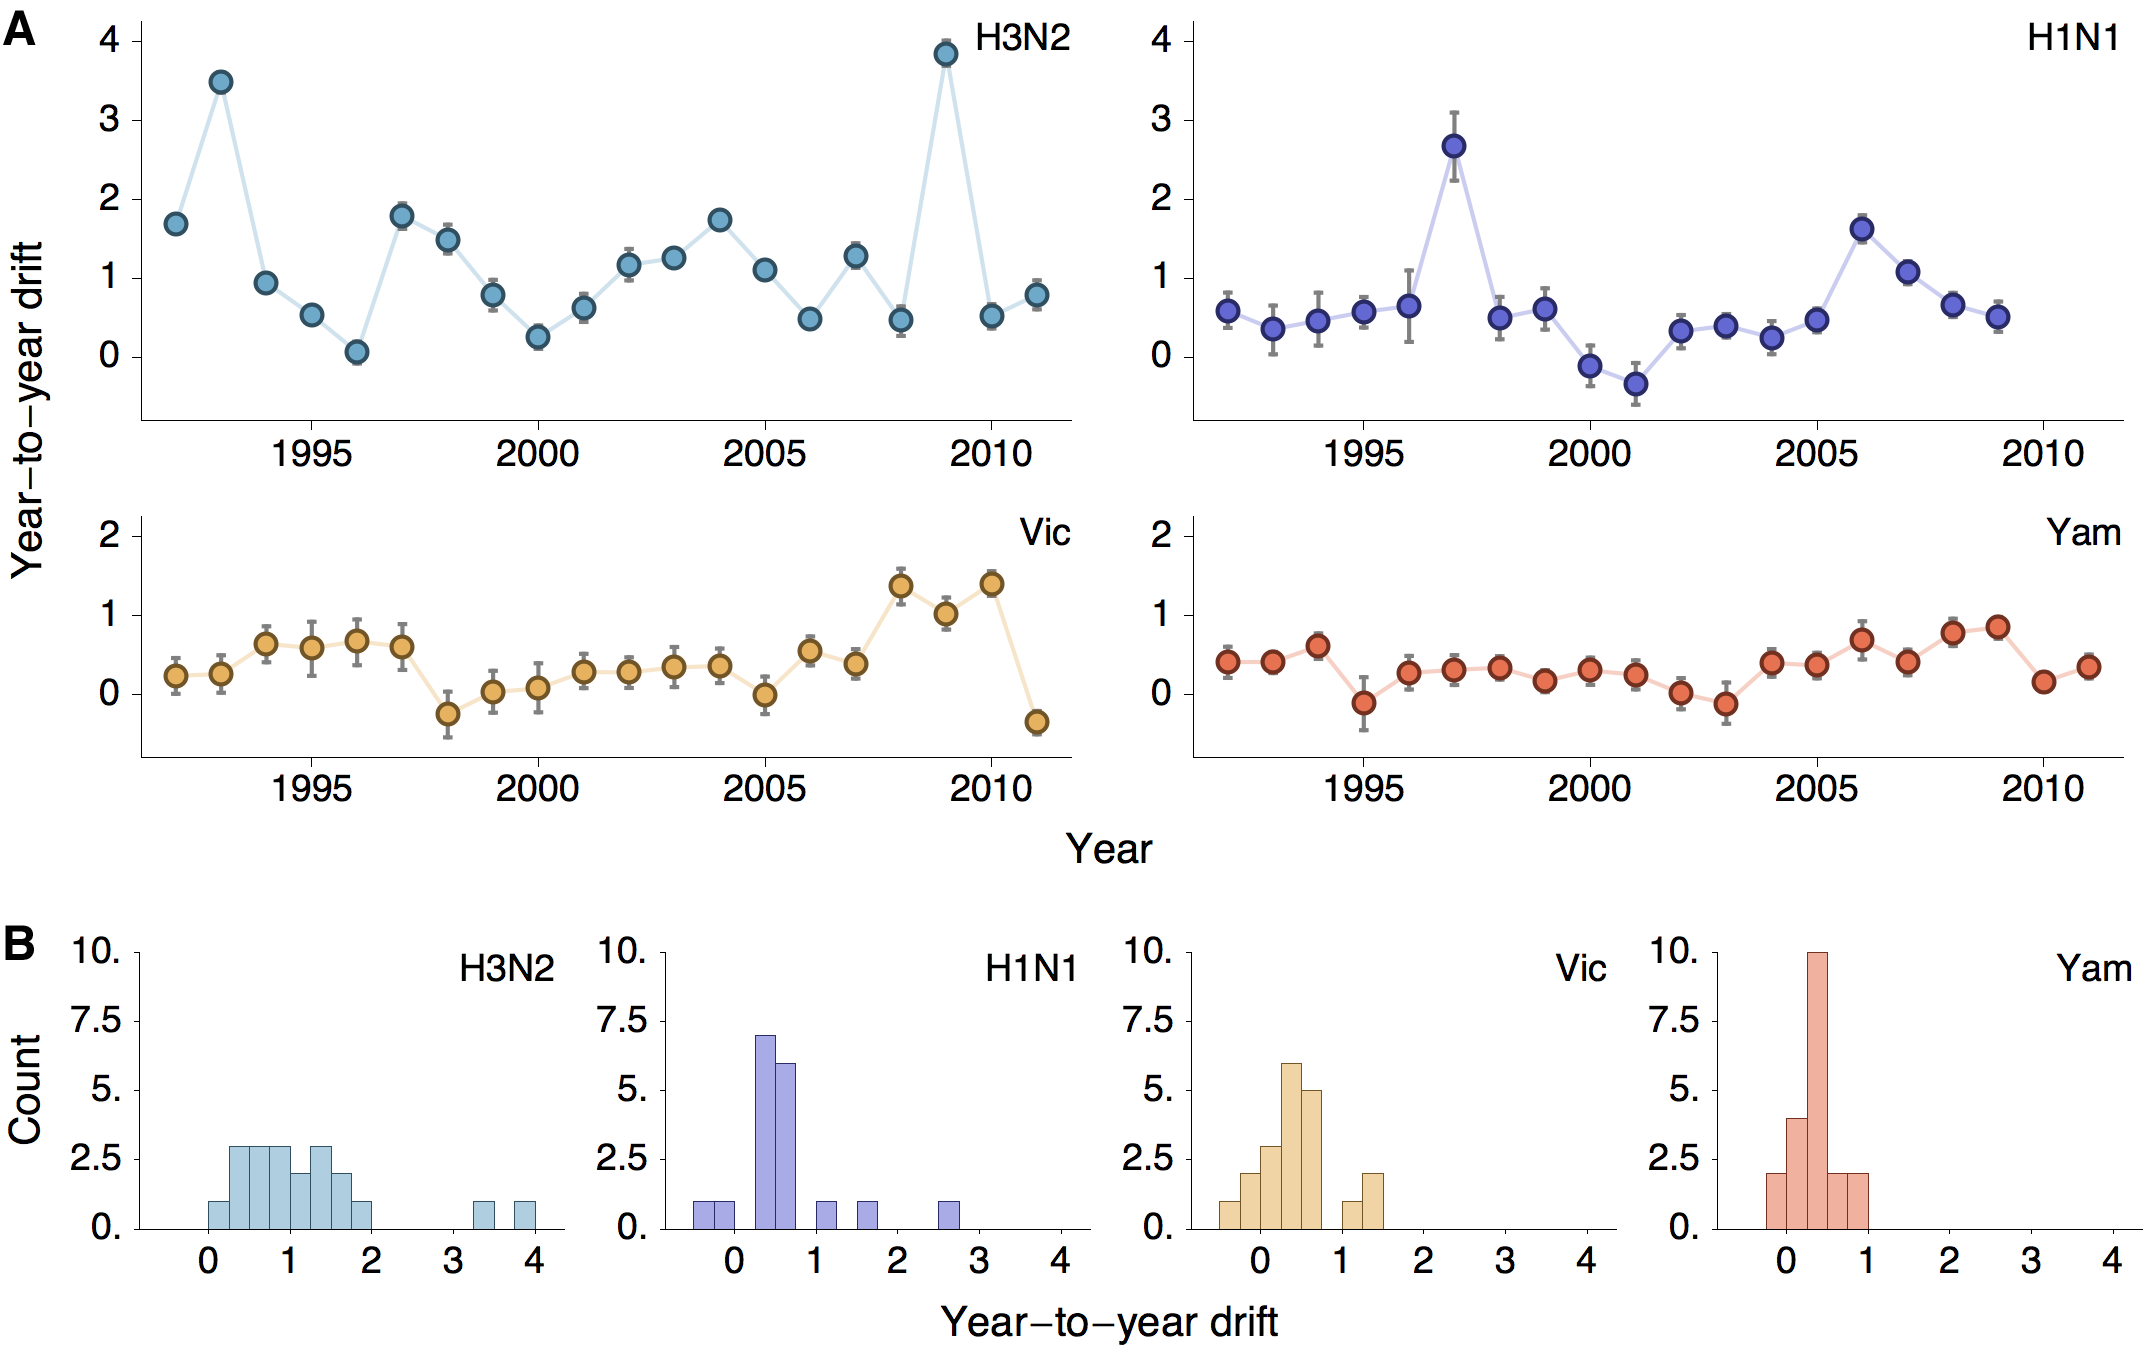
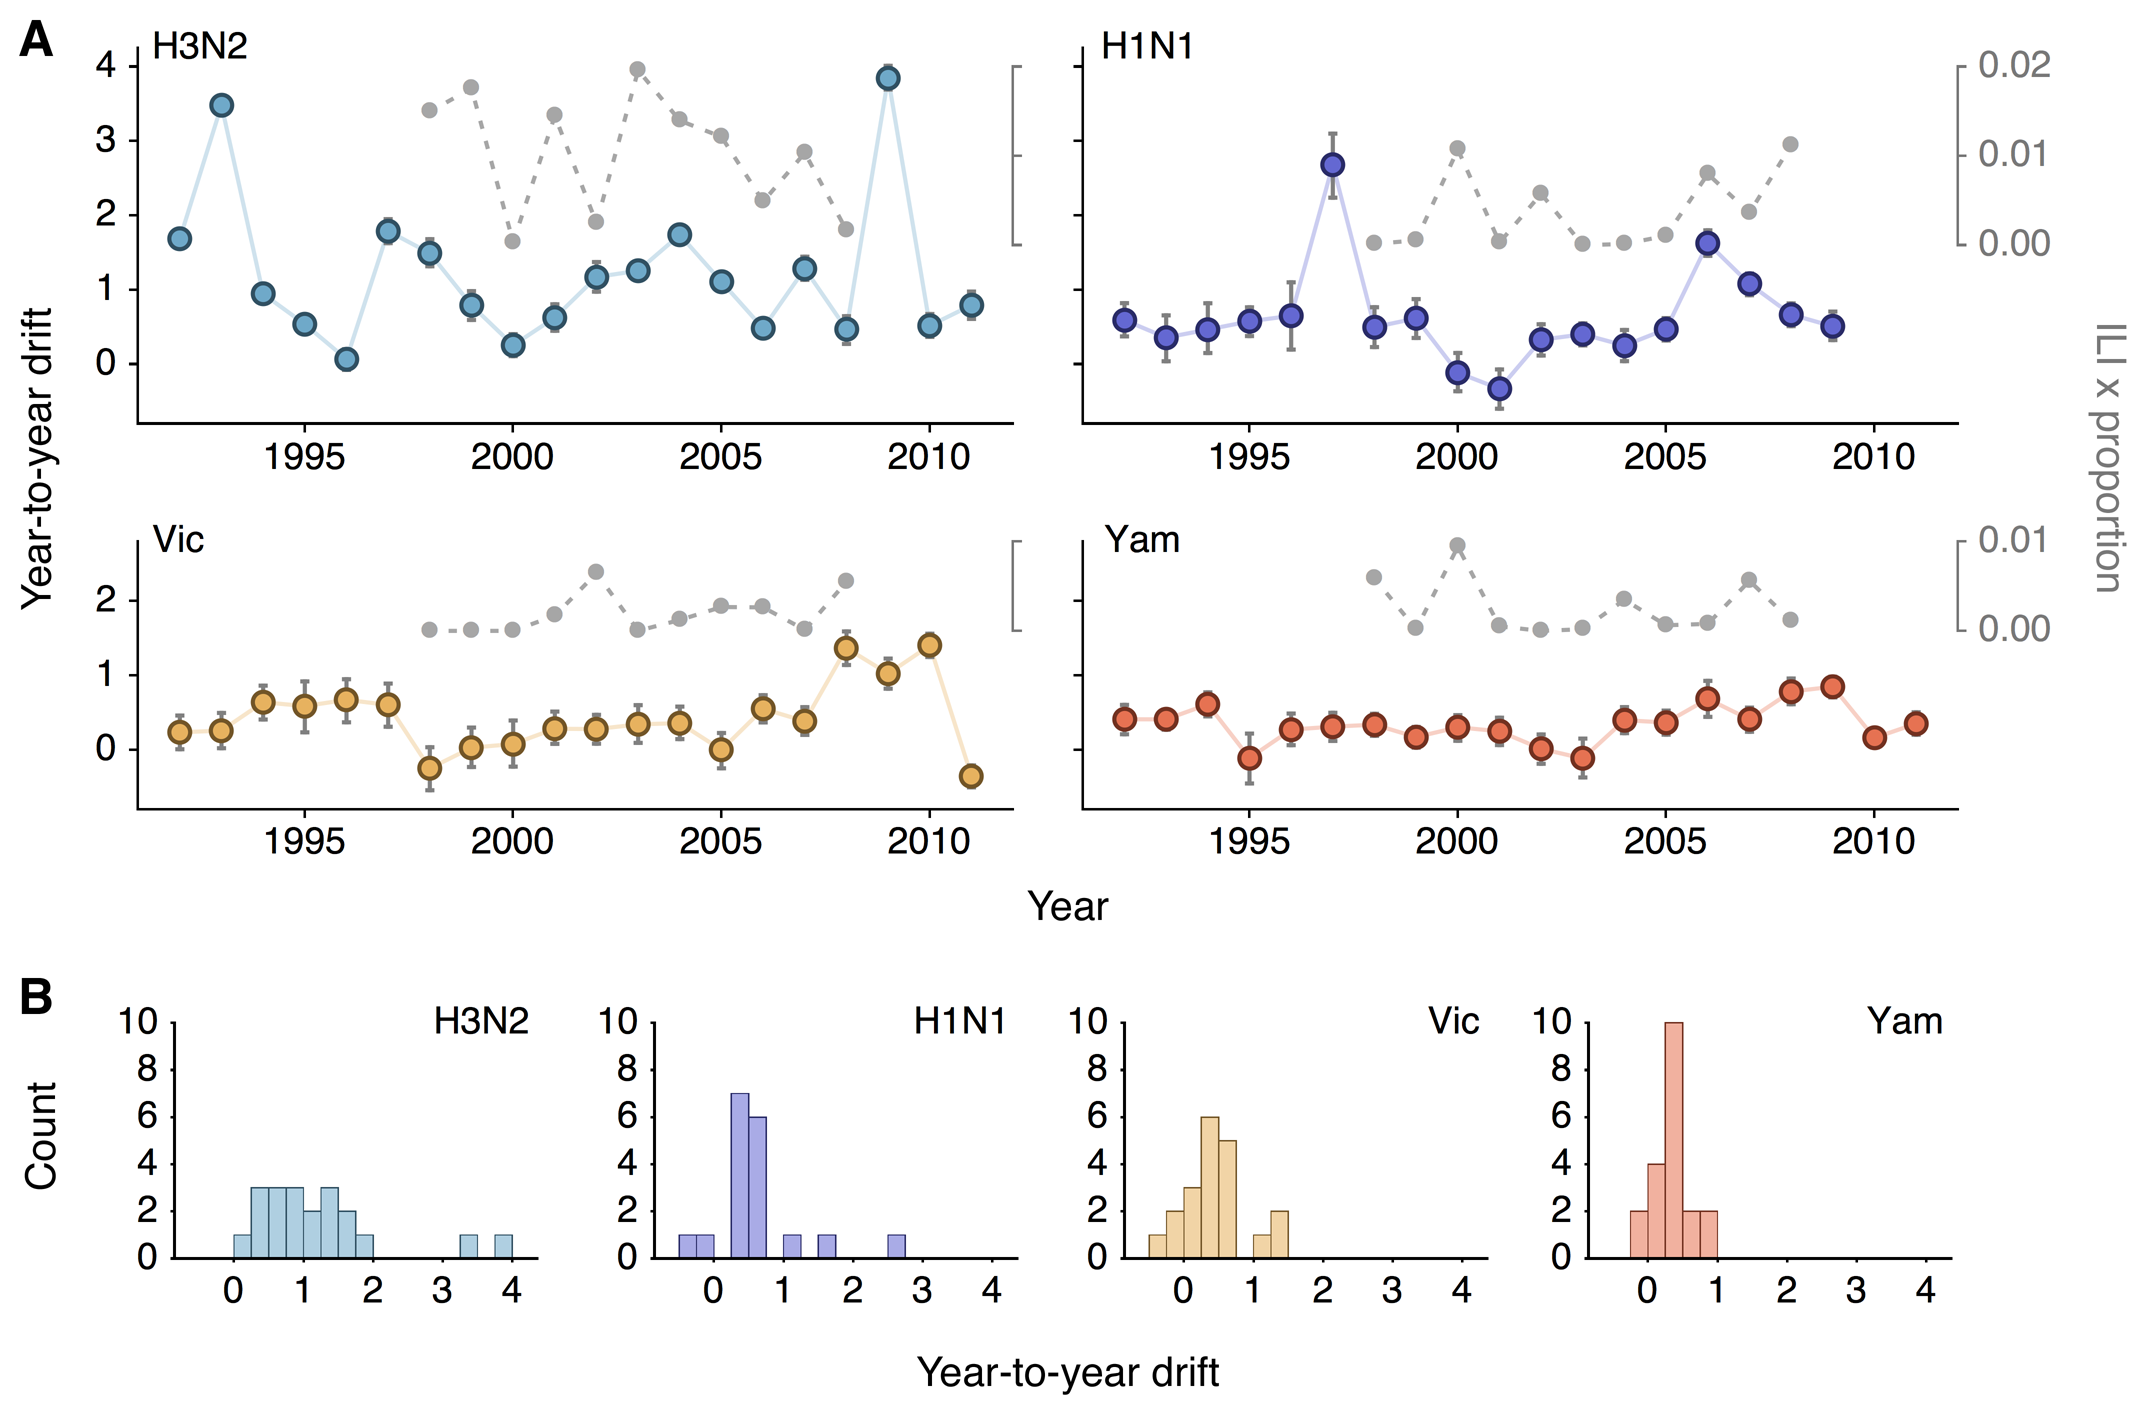
Revise figure 3 to show incidence timeseries.

diff --git a/flux.tex b/flux.tex
@@ -276,12 +276,14 @@ We observe greater heterogeneity in year-to-year antigenic drift in type A than 
 %%% jumps %%%
 \begin{figure}[h]
 	\centering		
-	\includegraphics[width=0.95\textwidth]{figures/jumps}
+	\includegraphics[width=1.0\textwidth]{figures/jumps}
 	\caption{\textbf{Year-to-year antigenic drift between 1992 and 2009 in A/H3N2, A/H1N1, B/Vic and B/Yam viruses.} 
-	(A) Time series of year-to-year antigenic drift across influenza clades from 1992 to 2011.
-	Year-to-year antigenic drift for a virus clade for year $i$ is measured as the mean of antigenic dimension 1 of phylogenetic lineages in year $i$ compared to the mean of antigenic dimension 1 of phylogenetic lineages from the previous year $i-1$.
+	(A) Time series of year-to-year antigenic drift across influenza clades from 1992 to 2011 and seasonal incidence from 1998/1999 to 2008/2009.
+	Colored lines represent year-to-year antigenic drift, and drift for a virus clade for year $i$ is measured as the mean of antigenic dimension 1 of phylogenetic lineages in year $i$ compared to the mean of antigenic dimension 1 of phylogenetic lineages from the previous year $i-1$.
 	For example, 2000 represents difference in antigenic dimension 1 between 1999 and 2000.
 	Error bars represent 50\% credible intervals across posterior samples of year-to-year drift.
+	Gray dotted lines represent clade-specific USA incidence taken as average influenza-like illness (ILI) multiplied by proportion of viruses attributable to a clade for each season.
+	Here, 2000 represents the 2000/2001 influenza season.
 	(B) Histograms of year-to-year antigenic drift across influenza clades summarizing observations from 1992 to 2011.
 	} 
 	\label{jumps} 
